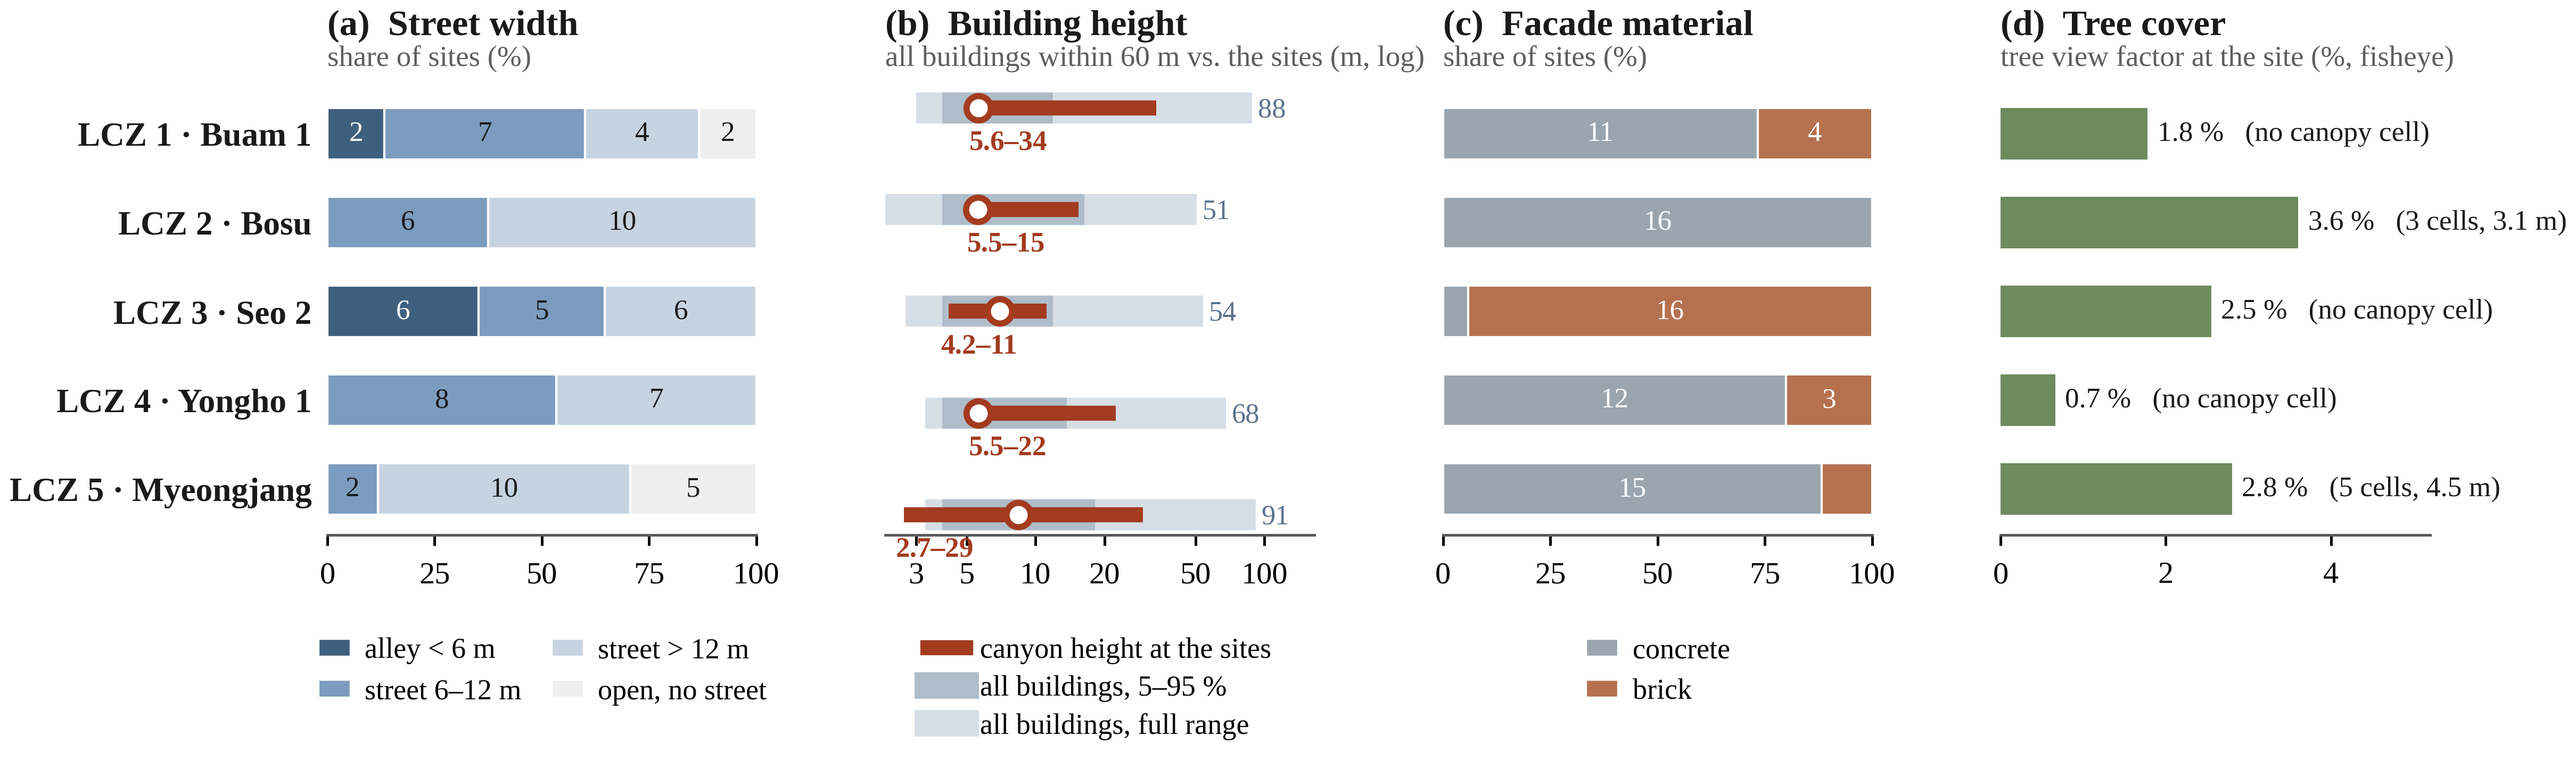
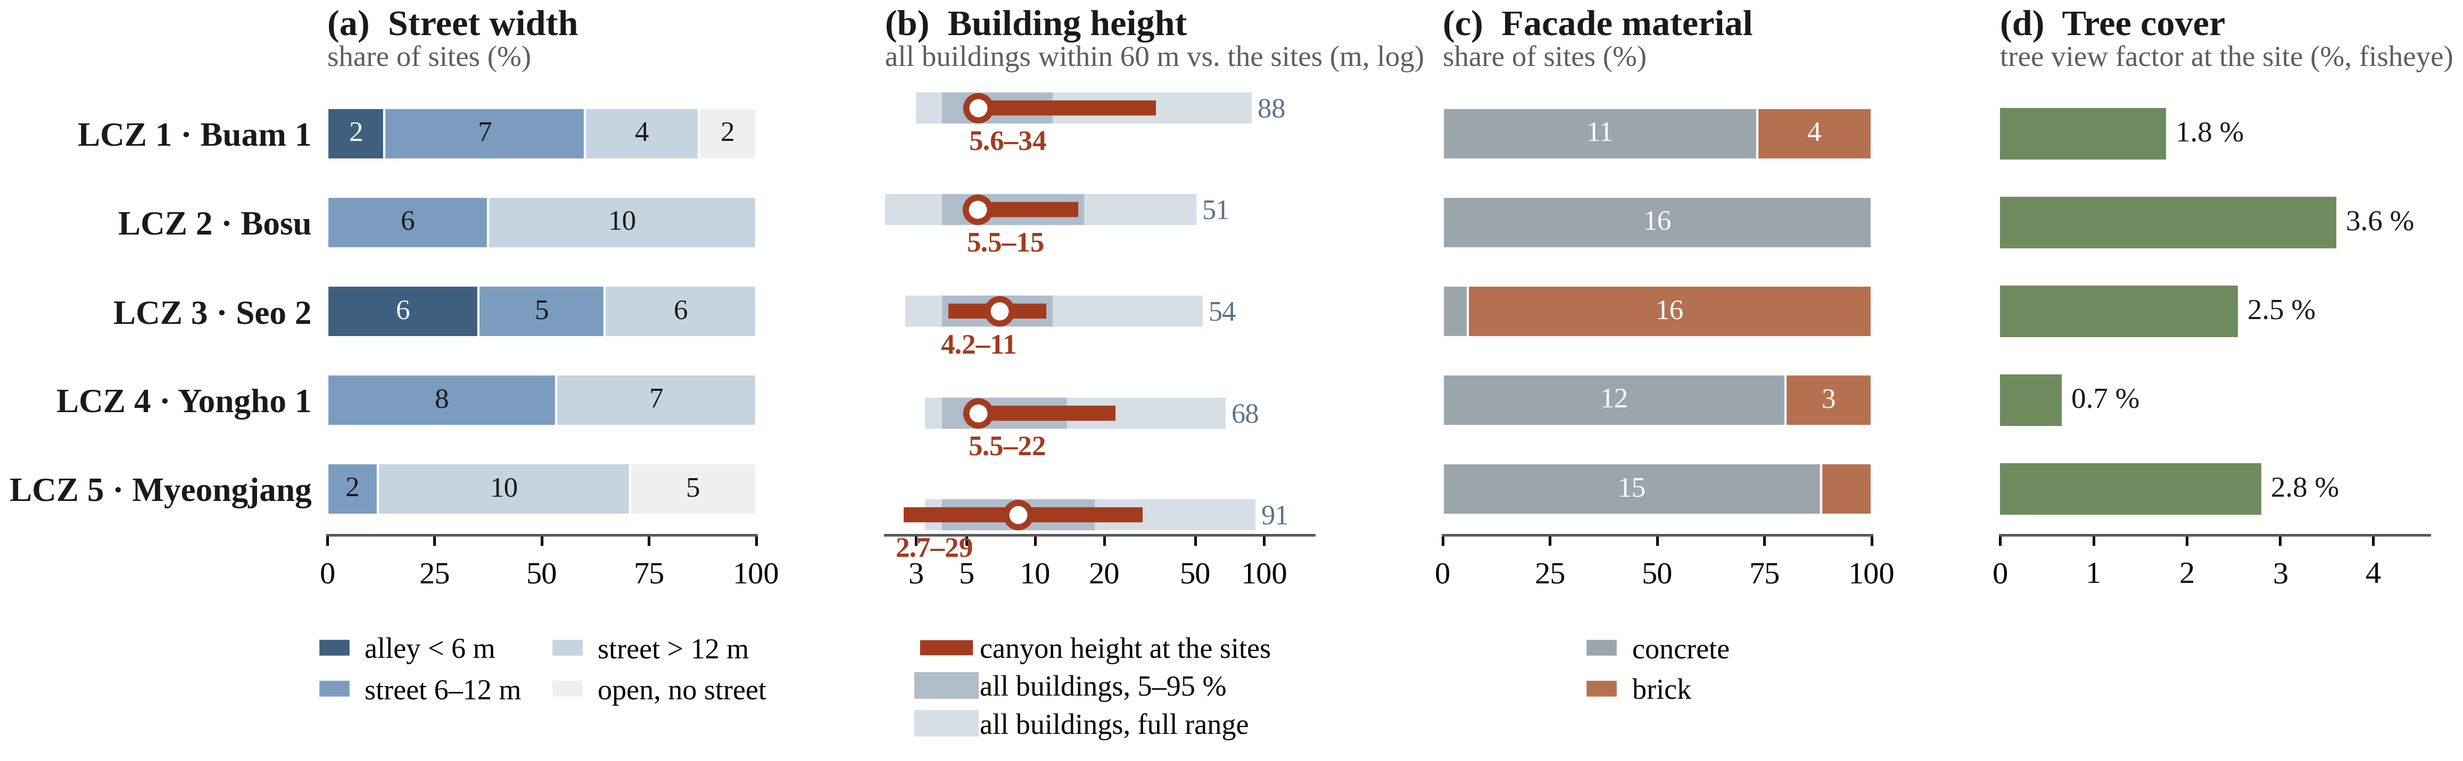
(d) 가로축이 끊어져 보이던 것 - 괄호 주석이 축 밖으로 나가 있었다
위성 수관 래스터 값은 캡션으로 옮기고 막대에는 실측 TVF 만 남긴다. 눈금 0~4.

Claude-Session: https://claude.ai/code/session_01GrP2NtWVeABT9iQDzKN66Q

diff --git a/scripts/fig_form_bars.py b/scripts/fig_form_bars.py
@@ -193,12 +193,12 @@ def main():
     v = [tmed[k][0] for k, _nm in ROWS]
     axs[3].barh(y, v, height=0.58, color="#6E8B5E", edgecolor="none")
     for i, (k, _nm) in enumerate(ROWS):
-        b = BLD[k]
-        sat = "no canopy cell" if b["cnp"] == 0 else f"{b['cnp']} cells, {b['ch']:.1f} m"
-        axs[3].text(v[i] + 0.12, i, f"{v[i]:.1f} %   ({sat})", va="center",
-                    fontsize=6.4, color=INK)
+        axs[3].text(v[i] + 0.10, i, f"{v[i]:.1f} %", va="center", fontsize=6.6, color=INK)
+    # 위성 래스터 값(수관 화소 0~5칸)은 캡션으로 옮겼다 — 막대 옆에 두니 글자가 축 밖으로
+    # 나가 가로축이 끊어져 보였다.
     style(axs[3], "(d)  Tree cover", "tree view factor at the site (%, fisheye)",
-          "", 5.2, False)
+          "", 4.6, False)
+    axs[3].set_xticks([0, 1, 2, 3, 4])
 
     for ext in ("pdf", "png"):
         fig.savefig(f"{OUT}/SCS_Fig_form_bars.{ext}", bbox_inches="tight", pad_inches=0.03)
